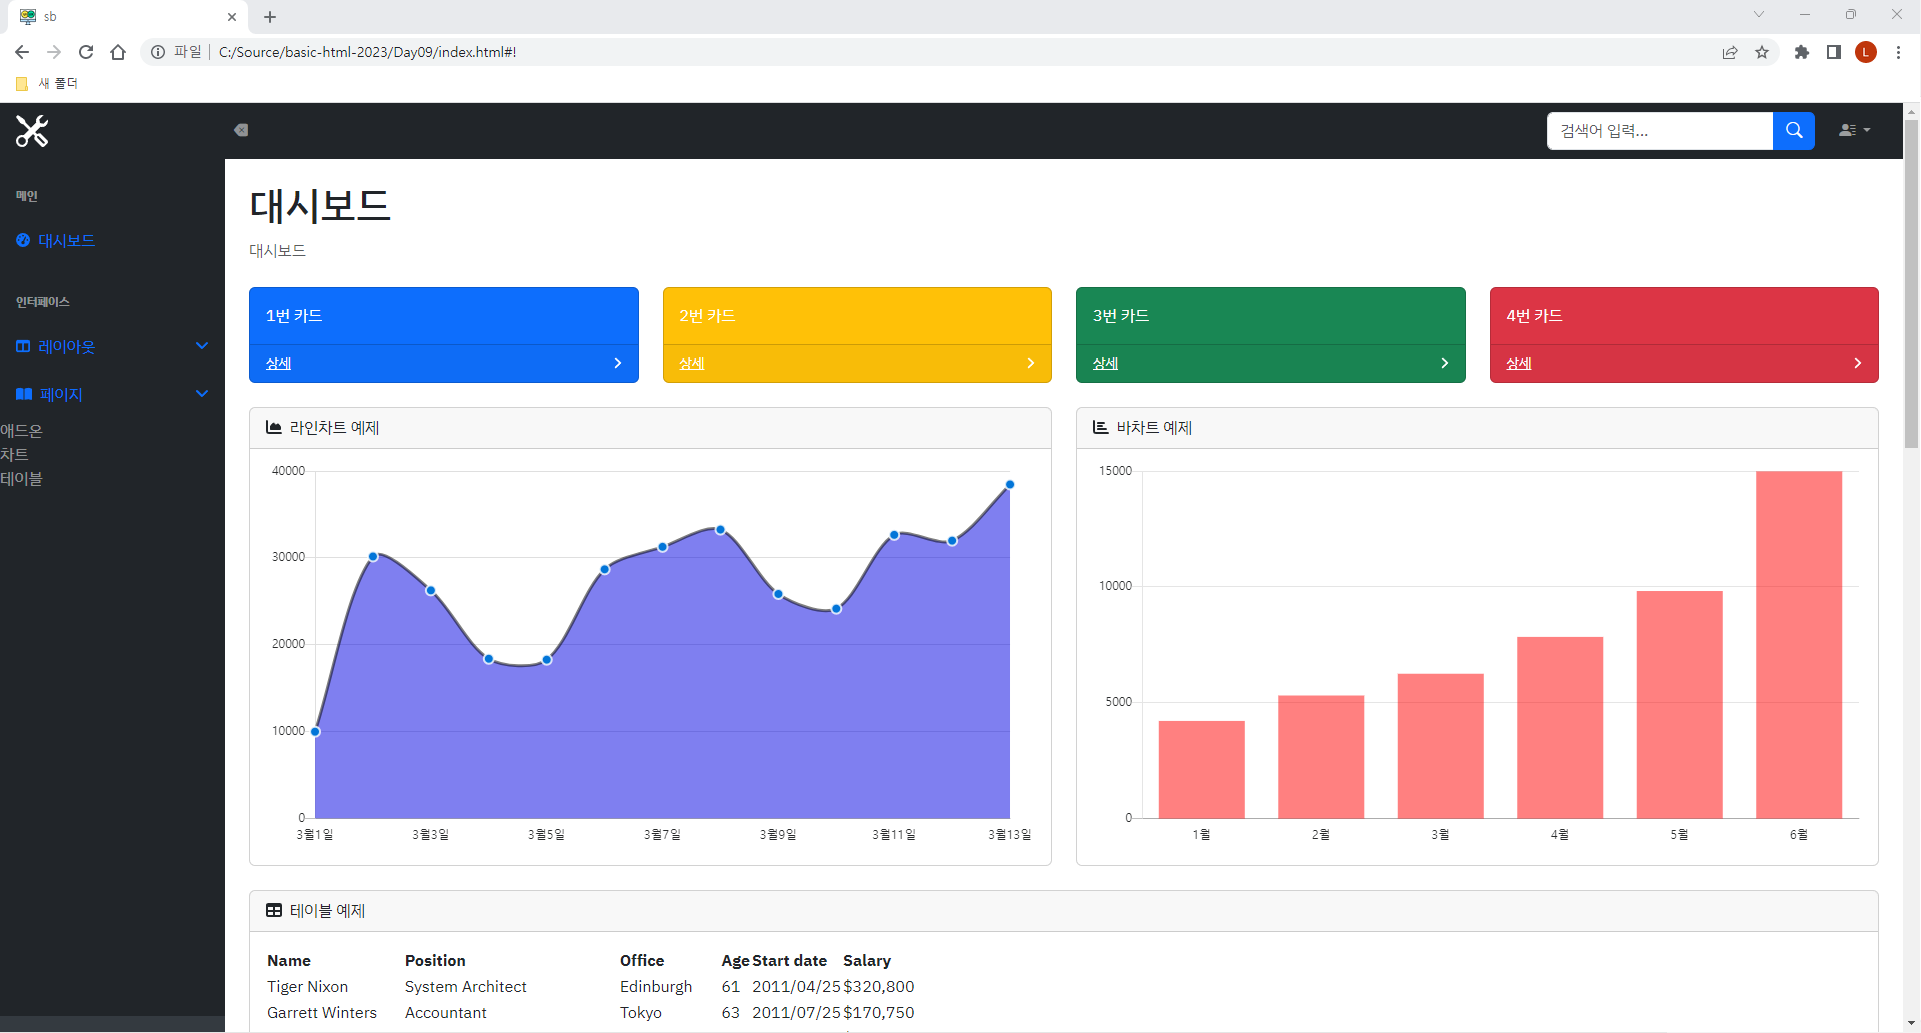
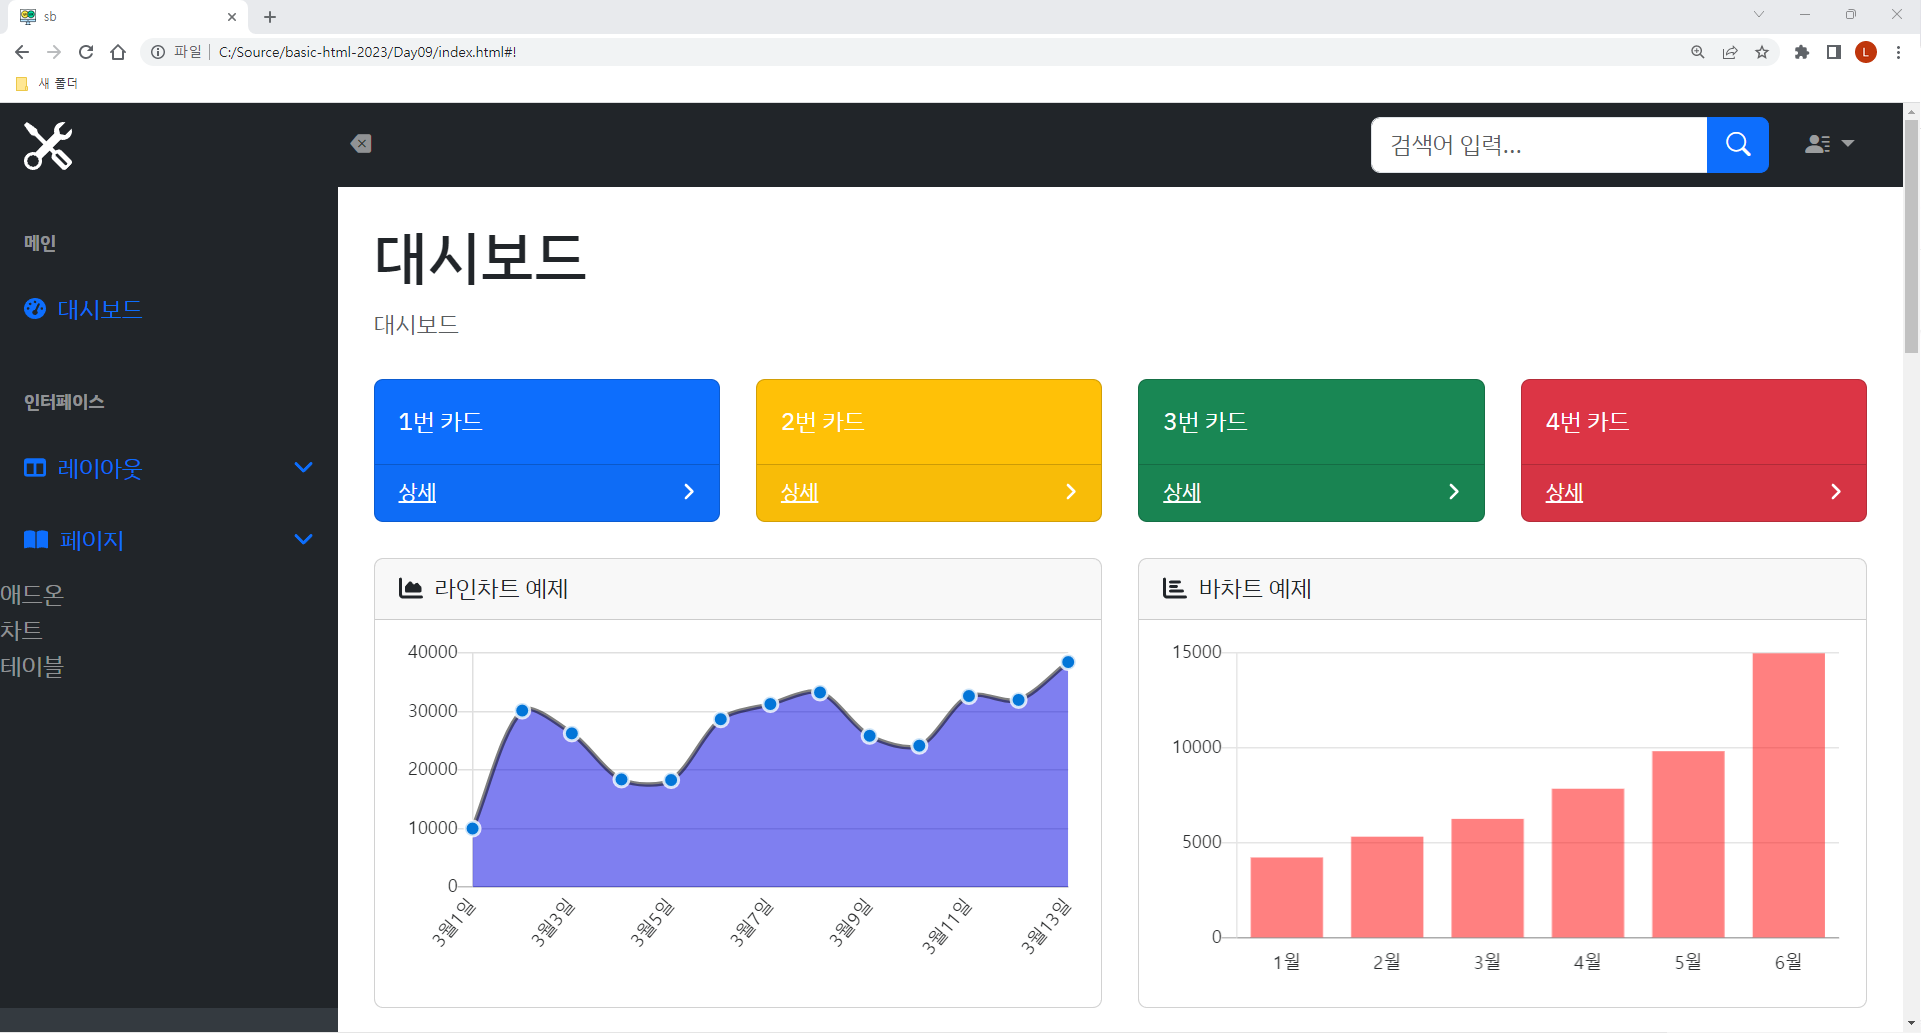
3월31일
3월31일

diff --git a/README.md b/README.md
@@ -87,11 +87,13 @@ java 개발자 과정 프론트엔드 리포지토리
 
 ## 9일차
 - 프론트엔드 학습
-    - Single Page Template
-    - SB Admin Page
+    - Bootstrap
+    - Chart.js
     
-★ Grayscale Single Page Template
+★ SB Admin Page 중간단계
 
 <img src = "https://raw.githubusercontent.com/Exit-Chokey/basic-html-2023/main/image/portfolio4_Middle.png" width="700">
+
+
 
 
